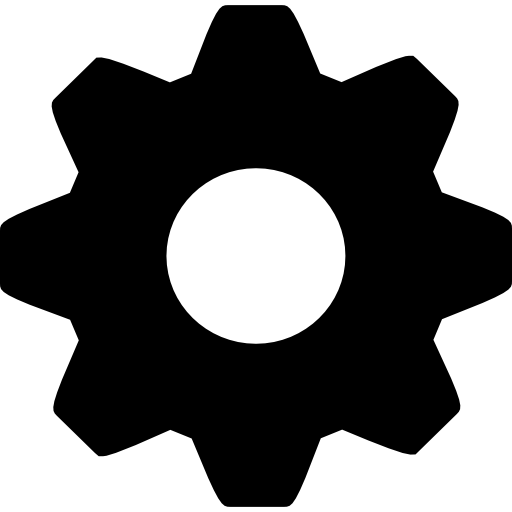
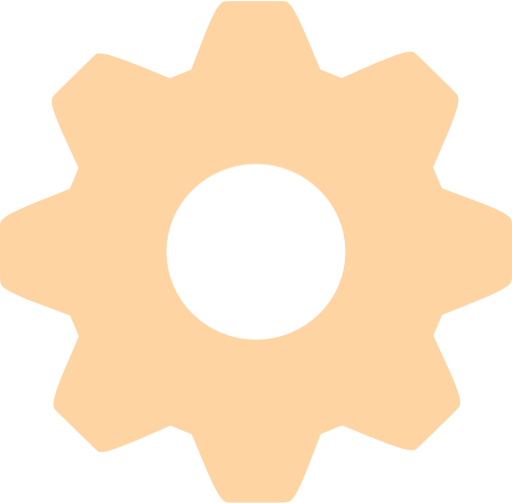
bubbles

diff --git a/frontend/src/css/listcss.css b/frontend/src/css/listcss.css
@@ -6,18 +6,18 @@
     align-items: center;
     justify-content: flex-end;
     height: 200px;
-    width: 45%;
-    margin: 10px 0px;
+    width: 46%;
+    margin: 8px 0px;
     border-radius: 5px;
 }
 
 .bubble-bg{
     opacity: 70%;
     background-color: black;
-    height: 50px;
+    height: 30px;
     width: 100%;
-    border-bottom: 1px solid black;
-    border-radius: 5px;
+    border-bottom-left-radius: 5px;
+    border-bottom-right-radius: 5px;
 }
 
 .bubble-info{
@@ -25,29 +25,99 @@
     display: flex;
     justify-content: space-between;
     width: 100%;
-    height: 50px;
     color: white;
+    height: 30px;
 }
 
 .bubble-info p{
     margin: 0;
     display: flex;
     align-items: center;
-    justify-content: center;
 }
 
 .bubble-header{
-    width: 70%;
-    height: auto;
+    width: 80%;
+    white-space: nowrap;
+    overflow: hidden;
     text-overflow: ellipsis;
+    padding-left: 8px;
 }
 
 .bubble-rating{
+    display: flex;
+    justify-content: flex-end;
     width: 30%;
-    height: auto
+    height: auto;
+    padding-right: 5px;
+}
+
+select{
+    background-color: white;
 }
 
 .row{
     display: flex;
     justify-content: space-around;
 }
+
+.list-star{
+    font-size: .5em;
+    margin-bottom: 0px;
+}
+
+.dv-star-rating-star{
+    margin-bottom: 0px !important;
+}
+
+@media only screen and (min-width: 1200px) {
+
+    .singlebubble{
+        position: relative;
+        display: flex;
+        flex-direction: column;
+        flex-wrap: wrap;
+        align-items: center;
+        justify-content: flex-end;
+        height: 300px;
+        width: 15%;
+        margin: 8px 0px;
+        border-radius: 5px;
+    }
+    
+    .bubble-bg{
+        opacity: 70%;
+        background-color: black;
+        height: 60px;
+        width: 100%;
+        border-bottom-left-radius: 5px;
+        border-bottom-right-radius: 5px;
+    }
+    
+    .bubble-info{
+        position: absolute;
+        display: flex;
+        justify-content: space-between;
+        width: 100%;
+        color: white;
+        height: 60px;
+    }
+    
+    .bubble-info p{
+        font-size: 1.3em;
+        margin: 0;
+        display: flex;
+        align-items: center;
+    }
+    
+    .bubble-header{
+        width: 80%;
+        padding-left: 8px;
+    }
+    
+    .bubble-rating{
+        display: flex;
+        justify-content: flex-end;
+        width: 30%;
+        height: auto;
+    }
+  }

diff --git a/frontend/src/components/myList.js b/frontend/src/components/myList.js
@@ -5,6 +5,7 @@ import {NavLink} from 'react-router-dom'
 import { loadPartialConfig } from '@babel/core';
 import StarRatingComponent from 'react-star-rating-component';
 import listcss from '../css/listcss.css'
+import {Link} from 'react-router-dom'
 
 
 class MyList extends Component {
@@ -45,11 +46,6 @@ class MyList extends Component {
   }
 
   updateRating = async (reviewId, i) => {
-    let renderRating = this.state.renderRating
-    renderRating[reviewId] = true;
-    this.setState({
-      renderRating: renderRating
-    })
     if (this.state.rating){
       let updatedReview = {
         id: reviewId,
@@ -92,14 +88,22 @@ class MyList extends Component {
       //     </h1>
       //   </div>
       // </div>
-      <div className="singlebubble" style={sectionStyle}>
+      <Link to={"/movie/"+ movie.tmdbID}className="singlebubble" style={sectionStyle}>
       <div className="bubble-bg">
 
       </div>
           <div className="bubble-info">
             <p className="bubble-header">{movie.name}</p>
             {review.rating &&
-              <p className="bubble-rating">{review.rating}/10</p>
+              <p className="bubble-rating">
+              <StarRatingComponent 
+                          starCount={1}
+                          value={1}
+                          onStarClick={this.onStarClick.bind(this)}
+                          className="list-star"
+                  />
+              {review.rating} 
+              </p>
             }
             {!review.rating && 
             !this.state.ratings[review._id] &&
@@ -121,7 +125,7 @@ class MyList extends Component {
               </div>
             }
           </div>       
-        </div>
+        </Link>
       )
     })
   }

diff --git a/frontend/src/components/navbar.js b/frontend/src/components/navbar.js
@@ -1,21 +1,25 @@
 import React from 'react'
 import { NavLink } from 'react-router-dom';
+import {FiList} from 'react-icons/fi'
+import {IoMdPeople, IoIosJournal, IoMdSettings} from 'react-icons/io'
+import {MdSettings} from 'react-icons/md'
+import {TiMessage} from 'react-icons/ti'
 
 export default function Navbar() {
     return (
         <div>
             <nav className="ourbar">
                 <NavLink to="/" className="navbar-item">
-                    <img src={require("../images/list.png")} className="navbar-icons"/>
+                    <IoIosJournal className="navbar-icons"/>
                 </NavLink>
                 <NavLink to="/my-feed" className="navbar-item">
-                    <img src={require("../images/social.png")} className="navbar-icons"/>
+                    <TiMessage className="navbar-icons"/>
                 </NavLink>
                 <NavLink to="/my-friends" className="navbar-item">
-                    <img src={require("../images/user.png")} className="navbar-icons"/>
+                    <IoMdPeople className="navbar-icons"/>
                 </NavLink>
-                <NavLink to ="/profile" className="navbar-item">
-                    <img src={require("../images/cog.png")} className="navbar-icons"/>
+                <NavLink to ="/profile" className="last-navbar-item">
+                    <MdSettings className="navbar-icons"/>
                 </NavLink>
             </nav>
         </div>

diff --git a/frontend/src/index.css b/frontend/src/index.css
@@ -5,6 +5,8 @@ body {
     'Cantarell', 'Fira Sans', 'Droid Sans', 'Helvetica Neue', sans-serif;
   -webkit-font-smoothing: antialiased;
   -moz-osx-font-smoothing: grayscale;
+  background-color: #eee2dc;
+  /* background-color: #eee2dc; */
 }
 
 code {
@@ -22,7 +24,19 @@ code {
 .navbar-item{
   width: 25%;
   height: 100%;
-  border: 1px solid black;
+  border-right: 2px solid black;
+  border-bottom: 2px solid black;
+  background-color: #123c69;
+  display: flex;
+  align-items: center;
+  justify-content: center;
+}
+
+.last-navbar-item{
+  width: 25%;
+  height: 100%;
+  border-bottom: 2px solid black;
+  background-color: #123c69;
   display: flex;
   align-items: center;
   justify-content: center;
@@ -46,11 +60,12 @@ code {
 .navbar-icons{
   height: 80%;
   width: auto;
+  color: #edc7b7
 }
 
 .poster-size{
   width: auto;
-  height: 100px;
+  height: 200px;
 }
 
 .listing-img{
